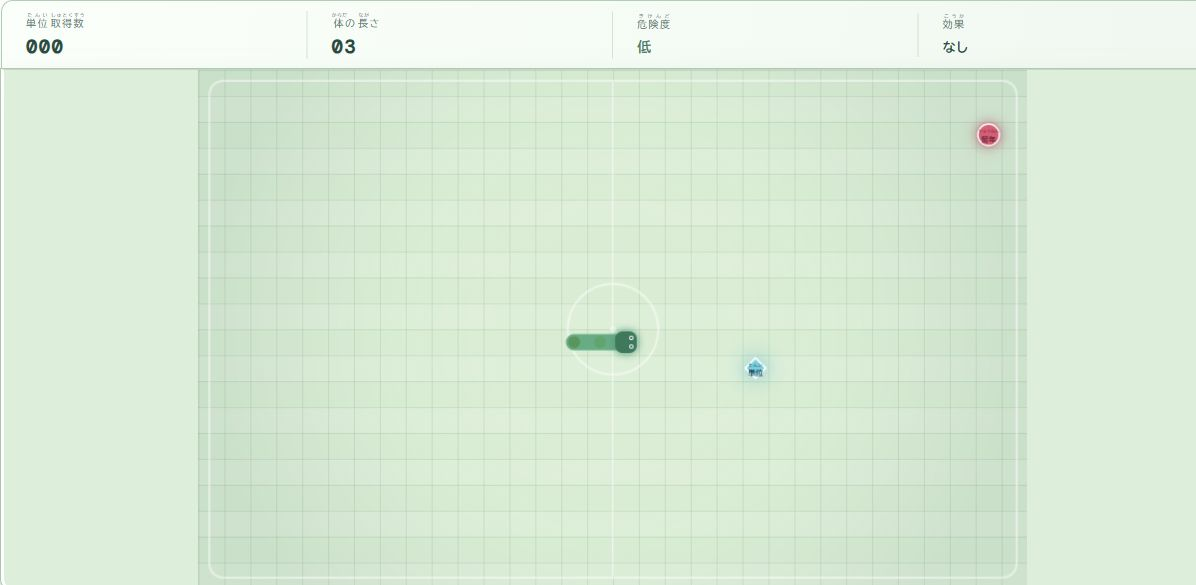
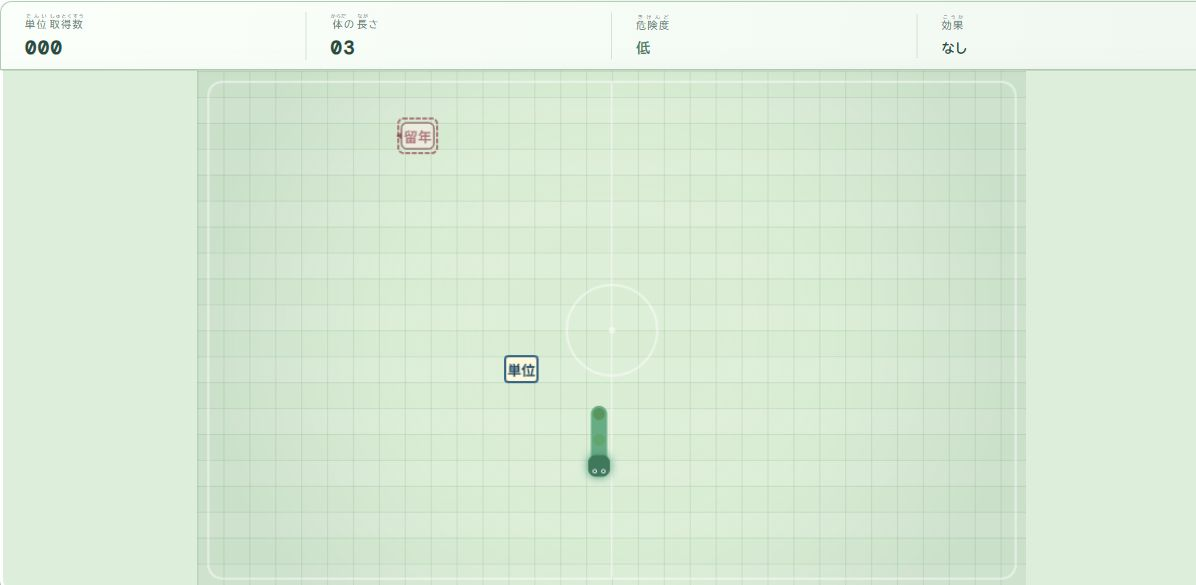
Improve Kosen Survivor pacing, spawning and collision fairness

diff --git a/games/local/2026-4Pro-ishida/game.js b/games/local/2026-4Pro-ishida/game.js
@@ -14,9 +14,9 @@
   const eyebrowEl = document.querySelector('#overlay-eyebrow');
   const directions = {up:{x:0,y:-1},down:{x:0,y:1},left:{x:-1,y:0},right:{x:1,y:0}};
   const difficultySettings = {
-    easy: {speed:160,minSpeed:118,interval:1600,intervalDrop:5,minInterval:700,startHazards:1,capStart:2,capEvery:18,waveEvery:55,maxWave:1},
-    normal: {speed:142,minSpeed:90,interval:1100,intervalDrop:8,minInterval:420,startHazards:1,capStart:3,capEvery:14,waveEvery:38,maxWave:2},
-    hard: {speed:122,minSpeed:72,interval:900,intervalDrop:10,minInterval:320,startHazards:2,capStart:4,capEvery:10,waveEvery:25,maxWave:3}
+    easy: {speed:180,minSpeed:145,hazardSpeed:420,minHazardSpeed:350,warning:1100,interval:2000,intervalDrop:3,minInterval:1100,startHazards:1,capStart:2,capEvery:24,waveEvery:70,maxWave:1},
+    normal: {speed:160,minSpeed:125,hazardSpeed:340,minHazardSpeed:270,warning:1000,interval:1600,intervalDrop:4,minInterval:850,startHazards:1,capStart:3,capEvery:20,waveEvery:55,maxWave:2},
+    hard: {speed:138,minSpeed:105,hazardSpeed:270,minHazardSpeed:210,warning:900,interval:1250,intervalDrop:6,minInterval:600,startHazards:2,capStart:4,capEvery:16,waveEvery:40,maxWave:2}
   };
   let difficulty='normal', collectedOrbs=0;
   let snake, previousSnake, dir, directionQueue, food, hazards, powerup, score, stepMs, lastStep, lastSpawn, lastPowerSpawn, startedAt, running, gameOver, shieldCharges=0, slowUntil=0, magnetUntil=0, growthPending=0, frame=0, lastStatsUpdate=0;
@@ -52,12 +52,22 @@
     copyEl.className='';
     snake=[{x:15,y:10},{x:14,y:10},{x:13,y:10}];previousSnake=snake.map(s=>({...s}));dir={x:1,y:0};directionQueue=[];hazards=[];powerup=null;shieldCharges=0;slowUntil=0;magnetUntil=0;growthPending=0;score=0;collectedOrbs=0;stepMs=difficultySettings[difficulty].speed;lastStep=performance.now();lastSpawn=0;lastPowerSpawn=lastStep;startedAt=performance.now();running=true;gameOver=false;placeFood();updateStats();updatePowerStatus();overlay.classList.add('hidden');
   }
-  function showReady(){reset();running=false;titleEl.textContent='スペースキーでスタート';copyEl.textContent='';eyebrowEl.textContent='READY';startBtn.innerHTML='スタート <span>→</span>';overlay.classList.remove('hidden');}
+  function showReady(){reset();running=false;titleEl.textContent='こうせんサバイバー';copyEl.textContent='単位を集めて、留年をよけよう。点滅は出現の合図！';eyebrowEl.textContent='あそびかた';startBtn.innerHTML='スタート <span>→</span>';overlay.classList.remove('hidden');}
   function updateStats(){scoreEl.textContent=String(score).padStart(3,'0');lengthEl.textContent=String(snake?.length||3).padStart(2,'0');const elapsed=startedAt?Math.max(0,(performance.now()-startedAt)/1000):0;const level=Math.min(100,Math.round((elapsed/90)*100));dangerEl.textContent=level>70?'高':level>35?'中':'低';dangerEl.style.color=level>70?'#bd3c52':level>35?'#a86614':'#21845f';}
   function updatePowerStatus(){const now=performance.now();const active=[];if(shieldCharges)active.push('まもり ×'+shieldCharges);if(slowUntil>now)active.push('ゆっくり '+Math.ceil((slowUntil-now)/1000)+'秒');if(magnetUntil>now)active.push('ひきよせ '+Math.ceil((magnetUntil-now)/1000)+'秒');effectStatusEl.textContent=active.join(' · ')||'なし';}
   function spawnPowerup(ts){const types=['shield','slow','magnet','clear','bonus'];let position;do{position={x:Math.floor(Math.random()*COLS),y:Math.floor(Math.random()*ROWS)}}while(snake.some(s=>same(s,position))||hazards.some(h=>same(h,position))||same(food,position));powerup={...position,type:types[Math.floor(Math.random()*types.length)],expiresAt:ts+10000};lastPowerSpawn=ts;}
   function collectPowerup(){const now=performance.now();if(powerup.type==='shield')shieldCharges=1;else if(powerup.type==='slow')slowUntil=Math.max(now,slowUntil)+7000;else if(powerup.type==='magnet')magnetUntil=Math.max(now,magnetUntil)+8000;else if(powerup.type==='clear')hazards=[];else if(powerup.type==='bonus'){score+=2;collectedOrbs+=2;growthPending++;updateStats();}powerup=null;lastPowerSpawn=now;updatePowerStatus();}
-  function resolveHazardCollisions(){for(let i=hazards.length-1;i>=0;i--){if(snake.some(s=>same(s,hazards[i]))){if(shieldCharges>0){shieldCharges--;hazards.splice(i,1);}else return true;}}updatePowerStatus();return false;}
+  function resolveHazardCollisions(){
+    // 留年に当たるのは頭だけ。長い胴体を横切られても終了しない。
+    for(let i=hazards.length-1;i>=0;i--){
+      if(hazards[i].active&&same(snake[0],hazards[i])){
+        if(shieldCharges>0){shieldCharges--;hazards.splice(i,1);}
+        else return true;
+      }
+    }
+    updatePowerStatus();
+    return false;
+  }
   function endGame(){
     running=false;gameOver=true;
     recordScore();
@@ -65,11 +75,11 @@
     if(score<=3){result='<ruby>君<rt>きみ</rt></ruby>は<ruby>留年<rt>りゅうねん</rt></ruby>してしまった！もう<ruby>一年<rt>いちねん</rt></ruby><ruby>頑張<rt>がんば</rt></ruby>ろう！';resultClass='result-fail';}
     else if(score<=5){result='もう<ruby>一歩<rt>いっぽ</rt></ruby>！あと<ruby>少<rt>すこ</rt></ruby>しで<ruby>留年<rt>りゅうねん</rt></ruby><ruby>回避<rt>かいひ</rt></ruby>！';resultClass='result-mid';}
     else if(score<10){result='ギリギリ<ruby>留年<rt>りゅうねん</rt></ruby><ruby>回避<rt>かいひ</rt></ruby>！おめでとう！';resultClass='result-close';}
-    else{result='キミはエリート<ruby>高専生<rt>こうせんせい</rt></ruby>だ！excellent!';resultClass='result-elite';}
-    titleEl.innerHTML='GAME<br><em>OVER.</em>';
+    else{result='キミはエリート<ruby>高専生<rt>こうせんせい</rt></ruby>だ！';resultClass='result-elite';}
+    titleEl.textContent='おつかれさま！';
     copyEl.className=`result-message ${resultClass}`;
     copyEl.innerHTML=`<span class="result-phrase">${result}</span><span class="result-score"><ruby>取得単位<rt>しゅとくたんい</rt></ruby> <b>${String(score).padStart(3,'0')}</b> ・ <ruby>長<rt>なが</rt></ruby>さ ${snake.length}</span>`;
-    eyebrowEl.textContent='RESULT';startBtn.innerHTML='PLAY AGAIN <span>→</span>';overlay.classList.remove('hidden');
+    eyebrowEl.textContent='けっか';startBtn.innerHTML='もう一度あそぶ <span>→</span>';overlay.classList.remove('hidden');
   }
   function setDirection(d){
     if(!running)return;
@@ -79,28 +89,65 @@
     if(directionQueue.length>=2)return;
     directionQueue.push(n);
     const now=performance.now();
-    if(now-lastStep>=stepMs*.7){tick();lastStep=now;}
+    if(now-lastStep>=stepMs*.7){tick(now);lastStep=now;}
   }
-  function spawnHazard(){const side=Math.floor(Math.random()*4);let h,v;if(side===0){h={x:Math.floor(Math.random()*COLS),y:0};v={x:0,y:1}}else if(side===1){h={x:COLS-1,y:Math.floor(Math.random()*ROWS)};v={x:-1,y:0}}else if(side===2){h={x:Math.floor(Math.random()*COLS),y:ROWS-1};v={x:0,y:-1}}else{h={x:0,y:Math.floor(Math.random()*ROWS)};v={x:1,y:0}}hazards.push({...h,prevX:h.x,prevY:h.y,v,life:0});}
-  function spawnWave(ts){const elapsed=(ts-startedAt)/1000;const settings=difficultySettings[difficulty];const maxHazards=Math.min(20,settings.capStart+Math.floor(elapsed/settings.capEvery));const waveSize=Math.min(settings.maxWave,1+Math.floor(elapsed/settings.waveEvery));for(let i=0;i<waveSize&&hazards.length<maxHazards;i++)spawnHazard();lastSpawn=ts;}
+  function spawnHazard(ts){
+    const choices=[];
+    // 頭の近く・単位・アイテム・他の留年を避け、盤面全体から選ぶ。
+    for(let y=0;y<ROWS;y++)for(let x=0;x<COLS;x++){
+      const cell={x,y};
+      if(Math.abs(x-snake[0].x)+Math.abs(y-snake[0].y)<6)continue;
+      if(snake.some(s=>same(s,cell))||same(food,cell)||(powerup&&same(powerup,cell)))continue;
+      if(hazards.some(h=>Math.abs(h.x-x)+Math.abs(h.y-y)<3))continue;
+      choices.push(cell);
+    }
+    if(!choices.length)return;
+    const position=choices[Math.floor(Math.random()*choices.length)];
+    // 出てすぐ画面外に消えないよう、4マス以上進める向きを選ぶ。
+    const headings=Object.values(directions).filter(v=>position.x+v.x*4>=0&&position.x+v.x*4<COLS&&position.y+v.y*4>=0&&position.y+v.y*4<ROWS);
+    const settings=difficultySettings[difficulty];
+    const elapsed=Math.max(0,(ts-startedAt)/1000);
+    const speed=Math.max(settings.minHazardSpeed,settings.hazardSpeed-elapsed*.5);
+    hazards.push({...position,prevX:position.x,prevY:position.y,
+      v:headings[Math.floor(Math.random()*headings.length)],
+      stepMs:speed*(.95+Math.random()*.2),
+      spawnedAt:ts,readyAt:ts+settings.warning,lastMove:ts+settings.warning,active:false});
+  }
+  function spawnWave(ts){const elapsed=(ts-startedAt)/1000;const settings=difficultySettings[difficulty];const maxHazards=Math.min(12,settings.capStart+Math.floor(elapsed/settings.capEvery));const waveSize=Math.min(settings.maxWave,1+Math.floor(elapsed/settings.waveEvery));for(let i=0;i<waveSize&&hazards.length<maxHazards;i++)spawnHazard(ts);lastSpawn=ts;}
   function spawnInterval(ts){const elapsed=(ts-startedAt)/1000;const settings=difficultySettings[difficulty];return Math.max(settings.minInterval,settings.interval-elapsed*settings.intervalDrop);}
-  function tick(){
+  function tick(ts){
     if(directionQueue.length)dir=directionQueue.shift();
     const head={x:snake[0].x+dir.x,y:snake[0].y+dir.y};
-    if(head.x<0||head.x>=COLS||head.y<0||head.y>=ROWS||snake.some((s,i)=>i>0&&same(s,head))){endGame();return;}
+    const magnetReach=ts<magnetUntil&&Math.abs(head.x-food.x)+Math.abs(head.y-food.y)<=4;
+    const eatsFood=same(head,food)||magnetReach;
+    const grows=growthPending>0||(eatsFood&&(collectedOrbs+1)%2===0);
+    // しっぽが移動する手では、直後に空く最後のマスへ進める。
+    const body=grows?snake:snake.slice(0,-1);
+    if(head.x<0||head.x>=COLS||head.y<0||head.y>=ROWS||body.some(s=>same(s,head))){endGame();return;}
     previousSnake=snake.map(s=>({...s}));snake.unshift(head);
     let grow=growthPending>0;if(grow)growthPending--;
-    const magnetActive=performance.now()<magnetUntil;
-    const magnetReach=magnetActive&&Math.abs(head.x-food.x)+Math.abs(head.y-food.y)<=4;
-    if(same(head,food)||magnetReach){score++;collectedOrbs++;if(collectedOrbs%2===0)grow=true;const settings=difficultySettings[difficulty];stepMs=Math.max(settings.minSpeed,stepMs-1.2);placeFood();updateStats();}
+    if(eatsFood){score++;collectedOrbs++;if(collectedOrbs%2===0)grow=true;const settings=difficultySettings[difficulty];stepMs=Math.max(settings.minSpeed,stepMs-.8);placeFood();}
     if(powerup&&same(head,powerup))collectPowerup();
     if(!grow)snake.pop();
     if(resolveHazardCollisions()){endGame();return;}
-    const moveHazards=performance.now()>=slowUntil;
-    for(const h of hazards){h.prevX=h.x;h.prevY=h.y;if(moveHazards){h.x+=h.v.x;h.y+=h.v.y;h.life++;}}
-    hazards=hazards.filter(h=>h.x>=0&&h.x<COLS&&h.y>=0&&h.y<ROWS&&h.life<Math.max(COLS,ROWS));
-    if(resolveHazardCollisions()){endGame();return;}
+    updateStats();
     updatePowerStatus();
+  }
+  function hazardInterval(h,ts){return h.stepMs*(ts<slowUntil?2:1);}
+  function updateHazards(ts){
+    for(const h of hazards){
+      if(!h.active){
+        if(ts<h.readyAt)continue;
+        // 予告中に頭が重なっていたら、その場で実体化させない。
+        if(same(snake[0],h)){h.readyAt=ts+400;continue;}
+        h.active=true;h.lastMove=ts;
+      }
+      if(ts-h.lastMove<hazardInterval(h,ts))continue;
+      h.prevX=h.x;h.prevY=h.y;
+      h.x+=h.v.x;h.y+=h.v.y;h.lastMove=ts;
+    }
+    hazards=hazards.filter(h=>h.x>=0&&h.x<COLS&&h.y>=0&&h.y<ROWS);
+    if(resolveHazardCollisions())endGame();
   }
   function draw(ts){frame++;ctx.clearRect(0,0,canvas.width,canvas.height);ctx.fillStyle='#d9f0d7';ctx.fillRect(0,0,canvas.width,canvas.height);
     for(let y=0;y<ROWS;y+=2){ctx.fillStyle='rgba(87,157,91,.035)';ctx.fillRect(0,y*CELL,canvas.width,CELL)}
@@ -109,17 +156,59 @@
     const grad=ctx.createRadialGradient(canvas.width/2,canvas.height/2,70,canvas.width/2,canvas.height/2,380);grad.addColorStop(0,'rgba(255,255,255,0)');grad.addColorStop(1,'rgba(46,107,102,.10)');ctx.fillStyle=grad;ctx.fillRect(0,0,canvas.width,canvas.height);
     // A faint schoolyard court marking beneath the action.
     ctx.save();ctx.strokeStyle='rgba(255,255,255,.48)';ctx.lineWidth=2;ctx.beginPath();ctx.roundRect(10,10,canvas.width-20,canvas.height-20,13);ctx.stroke();ctx.beginPath();ctx.moveTo(canvas.width/2,12);ctx.lineTo(canvas.width/2,canvas.height-12);ctx.stroke();ctx.beginPath();ctx.arc(canvas.width/2,canvas.height/2,42,0,Math.PI*2);ctx.stroke();ctx.beginPath();ctx.arc(canvas.width/2,canvas.height/2,3,0,Math.PI*2);ctx.fillStyle='rgba(255,255,255,.55)';ctx.fill();ctx.restore();
-    // Food glow
+    // 単位は明るい札、留年は赤い札で見分ける。
     const progress=running?Math.max(0,Math.min(1,(ts-lastStep)/stepMs)):1;
     const lerp=(a,b)=>a+(b-a)*progress;
-    if(food){const pulse=1+Math.sin(frame*.09)*.07;const x=food.x*CELL+12,y=food.y*CELL+12;ctx.shadowBlur=20;ctx.shadowColor='#00aeca';ctx.fillStyle='#45d4df';ctx.beginPath();ctx.moveTo(x,y-10*pulse);ctx.lineTo(x+10*pulse,y);ctx.lineTo(x,y+10*pulse);ctx.lineTo(x-10*pulse,y);ctx.closePath();ctx.fill();ctx.shadowBlur=0;ctx.strokeStyle='#ffffff';ctx.lineWidth=1.5;ctx.stroke();ctx.textAlign='center';ctx.textBaseline='middle';ctx.fillStyle='#073d57';ctx.font='4.4px sans-serif';ctx.fillText('たんい',x,y-3);ctx.font='bold 7px sans-serif';ctx.fillText('単位',x,y+4.5)}
+    if(food){
+      const x=food.x*CELL+12,y=food.y*CELL+12;
+      ctx.fillStyle='#fff9d9';ctx.strokeStyle='#176387';ctx.lineWidth=2;
+      ctx.beginPath();ctx.roundRect(x-15,y-12,30,24,3);ctx.fill();ctx.stroke();
+      ctx.textAlign='center';ctx.textBaseline='middle';ctx.fillStyle='#124d6b';
+      ctx.font='bold 13px sans-serif';ctx.fillText('単位',x,y+1);
+    }
     if(powerup){const p=1+Math.sin(frame*.12)*.08;const x=powerup.x*CELL+12,y=powerup.y*CELL+12;const colors={shield:'#5388ee',slow:'#9864de',magnet:'#ed963d',clear:'#e6537d',bonus:'#24a879'};const glyphs={shield:'盾',slow:'時',magnet:'引',clear:'消',bonus:'+2'};const readings={shield:'たて',slow:'とき',magnet:'ひ',clear:'けす',bonus:'たんい'};ctx.shadowBlur=18;ctx.shadowColor=colors[powerup.type];ctx.fillStyle=colors[powerup.type];ctx.beginPath();ctx.roundRect(x-10*p,y-10*p,20*p,20*p,5);ctx.fill();ctx.shadowBlur=0;ctx.strokeStyle='#fff';ctx.lineWidth=1.5;ctx.stroke();ctx.textAlign='center';ctx.textBaseline='middle';ctx.fillStyle='#fff';ctx.font='3.5px sans-serif';ctx.fillText(readings[powerup.type],x,y-2.5);ctx.font='bold 7px sans-serif';ctx.fillText(glyphs[powerup.type],x,y+4.5)}
-    hazards.forEach((h,i)=>{const hx=lerp(h.prevX??h.x,h.x),hy=lerp(h.prevY??h.y,h.y);const x=hx*CELL+12,y=hy*CELL+12;ctx.globalAlpha=.18;ctx.fillStyle='#ed5573';ctx.beginPath();ctx.arc(x,y,12,0,Math.PI*2);ctx.fill();ctx.globalAlpha=1;ctx.shadowBlur=13;ctx.shadowColor='#d83d61';ctx.fillStyle=i%2?'#ff8495':'#ed5573';ctx.beginPath();ctx.arc(x,y,10,0,Math.PI*2);ctx.fill();ctx.shadowBlur=0;ctx.strokeStyle='#fff3f5';ctx.lineWidth=1.5;ctx.stroke();ctx.textAlign='center';ctx.textBaseline='middle';ctx.fillStyle='#681b33';ctx.font='3.8px sans-serif';ctx.fillText('りゅうねん',x,y-3);ctx.font='bold 7px sans-serif';ctx.fillText('留年',x,y+4.5)});
     const points=snake?.map((s,i)=>{const from=previousSnake?.[i]||s;return{x:lerp(from.x,s.x),y:lerp(from.y,s.y)}})||[];
     if(points.length>1){ctx.beginPath();ctx.moveTo(points[points.length-1].x*CELL+12,points[points.length-1].y*CELL+12);for(let i=points.length-2;i>=0;i--)ctx.lineTo(points[i].x*CELL+12,points[i].y*CELL+12);ctx.strokeStyle='#42ae83';ctx.lineWidth=15;ctx.lineCap='round';ctx.lineJoin='round';ctx.stroke()}
     points.forEach((s,i)=>{const x=s.x*CELL,y=s.y*CELL;const t=i/Math.max(1,points.length-1);if(i>0){ctx.fillStyle=`hsl(${151-t*13} ${49-t*5}% ${48-t*7}%)`;ctx.beginPath();ctx.arc(x+12,y+12,5.5,0,Math.PI*2);ctx.fill();return;}ctx.fillStyle='#167a5a';ctx.shadowBlur=9;ctx.shadowColor='#24956d';ctx.beginPath();ctx.roundRect(x+2,y+2,CELL-4,CELL-4,7);ctx.fill();ctx.shadowBlur=0;const eyeX=dir.x===1?x+17:dir.x===-1?x+7:x+8;const eyeY=dir.y===1?y+17:dir.y===-1?y+7:y+8;ctx.fillStyle='#fff';ctx.beginPath();ctx.arc(eyeX,eyeY,2,0,Math.PI*2);ctx.fill();const ex=dir.x===1?eyeX:dir.x===-1?eyeX:eyeX+8,ey=dir.y===1?eyeY:dir.y===-1?eyeY:eyeY+8;ctx.beginPath();ctx.arc(ex,ey,2,0,Math.PI*2);ctx.fill();ctx.fillStyle='#163d36';ctx.beginPath();ctx.arc(eyeX,eyeY,1,0,Math.PI*2);ctx.arc(ex,ey,1,0,Math.PI*2);ctx.fill()});
+    drawHazards(ts);
   }
-  function loop(ts){if(running){if(!lastSpawn){for(let i=0;i<difficultySettings[difficulty].startHazards;i++)spawnHazard();lastSpawn=ts;}if(powerup&&ts>powerup.expiresAt)powerup=null;if(!powerup&&ts-lastPowerSpawn>12000)spawnPowerup(ts);if(ts-lastStatsUpdate>500){updateStats();updatePowerStatus();lastStatsUpdate=ts;}if(ts-lastSpawn>spawnInterval(ts))spawnWave(ts);if(ts-lastStep>stepMs){tick();lastStep=ts;}}draw(ts);requestAnimationFrame(loop)}
+  function drawHazards(ts){
+    for(const h of hazards){
+      const progress=h.active?Math.min(1,Math.max(0,(ts-h.lastMove)/hazardInterval(h,ts))):1;
+      const x=(h.prevX+(h.x-h.prevX)*progress)*CELL+12;
+      const y=(h.prevY+(h.y-h.prevY)*progress)*CELL+12;
+      ctx.save();
+      if(!h.active){
+        ctx.globalAlpha=.45+.25*Math.sin(ts/90);
+        ctx.strokeStyle='#a52332';ctx.lineWidth=2;ctx.setLineDash([3,3]);
+        ctx.beginPath();ctx.roundRect(x-18,y-16,36,32,5);ctx.stroke();ctx.setLineDash([]);
+      }
+      ctx.fillStyle=h.active?'#b52638':'#fff0e9';
+      ctx.strokeStyle='#761b29';ctx.lineWidth=1.5;
+      ctx.beginPath();ctx.roundRect(x-15,y-12,30,24,5);ctx.fill();ctx.stroke();
+      ctx.textAlign='center';ctx.textBaseline='middle';ctx.fillStyle=h.active?'#fff':'#9b2534';
+      ctx.font='bold 13px sans-serif';ctx.fillText('留年',x,y+1);
+      // 矢印で次に進む向きを示す。
+      const tipX=x+h.v.x*20,tipY=y+h.v.y*18;
+      const baseX=x+h.v.x*15,baseY=y+h.v.y*13;
+      ctx.fillStyle='#761b29';ctx.beginPath();ctx.moveTo(tipX,tipY);
+      ctx.lineTo(baseX-h.v.y*3,baseY+h.v.x*3);
+      ctx.lineTo(baseX+h.v.y*3,baseY-h.v.x*3);ctx.closePath();ctx.fill();
+      ctx.restore();
+    }
+  }
+  function loop(ts){
+    if(running){
+      if(!lastSpawn){for(let i=0;i<difficultySettings[difficulty].startHazards;i++)spawnHazard(ts);lastSpawn=ts;}
+      if(powerup&&ts>powerup.expiresAt)powerup=null;
+      if(!powerup&&ts-lastPowerSpawn>12000)spawnPowerup(ts);
+      if(ts-lastStatsUpdate>500){updateStats();updatePowerStatus();lastStatsUpdate=ts;}
+      if(ts-lastSpawn>spawnInterval(ts))spawnWave(ts);
+      if(ts-lastStep>stepMs){tick(ts);lastStep=ts;}
+      if(running)updateHazards(ts);
+    }
+    draw(ts);requestAnimationFrame(loop);
+  }
   document.addEventListener('keydown',e=>{if(e.code==='Space'||e.key===' '){e.preventDefault();if(!running)reset();return;}const map={ArrowUp:'up',w:'up',W:'up',ArrowDown:'down',s:'down',S:'down',ArrowLeft:'left',a:'left',A:'left',ArrowRight:'right',d:'right',D:'right'};if(map[e.key]){e.preventDefault();setDirection(map[e.key]);}if(e.key==='Enter'&&!running){e.preventDefault();reset();}});
   document.querySelectorAll('[data-dir]').forEach(b=>{b.addEventListener('pointerdown',e=>{e.preventDefault();setDirection(b.dataset.dir);});});
   document.querySelectorAll('[data-difficulty]').forEach(button=>button.addEventListener('click',()=>{

diff --git a/launcher/kosen-technology.html b/launcher/kosen-technology.html
@@ -74,8 +74,8 @@
         <p class="lead">JavaScriptが、ゲームの状態を調べて判断します。</p>
         <div class="rule-cards">
           <article class="rule-card collect-rule"><span class="rule-label">単位を取る</span><div class="rule-visual collect-visual" role="img" aria-label="キャラクターが単位と同じマスに到着し、得点が1増える模式図。"><span class="game-piece snake-piece"></span><span class="visual-arrow" aria-hidden="true">→</span><span class="game-piece credit-piece"></span><b>+1</b></div><h2>同じマスに来たら</h2><p>得点を <strong>1</strong> 増やす。<br>2単位ごとに体も伸びます。</p><div class="condition">もし単位と位置が同じなら<br><b>得点を増やす</b></div></article>
-          <article class="rule-card collision-rule"><span class="rule-label">ぶつかる</span><div class="rule-visual collision-visual" role="img" aria-label="キャラクターが壁にぶつかり、ゲーム終了になる模式図。"><span class="game-piece snake-piece"></span><span class="visual-arrow" aria-hidden="true">→</span><span class="wall"></span><b>STOP</b></div><h2>壁や自分の体に当たったら</h2><p>ゲームを終了して、<br>結果の画面を表示します。</p><div class="condition">もし壁や体に当たったなら<br><b>ゲーム終了</b></div></article>
-          <article class="rule-card difficulty-rule"><span class="rule-label">難易度を変える</span><div class="speed-chart" role="img" aria-label="開始時の移動間隔。かんたん160ミリ秒、ふつう142ミリ秒、むずかしい122ミリ秒。間隔が短いほど速く進む。"><div><span>かんたん</span><i style="--bar:100%"></i><b>160</b></div><div><span>ふつう</span><i style="--bar:89%"></i><b>142</b></div><div><span>むずかしい</span><i style="--bar:76%"></i><b>122</b></div><small>1マス進む間隔（開始時・ミリ秒）</small></div><h2>進む間隔を短くすると</h2><p>キャラクターが速く進む。<br>よけるのが難しくなります。</p><div class="condition">難易度に合わせて<br><b>動きの数値を変える</b></div></article>
+          <article class="rule-card collision-rule"><span class="rule-label">ぶつかる</span><div class="rule-visual collision-visual" role="img" aria-label="キャラクターが壁にぶつかり、ゲーム終了になる模式図。"><span class="game-piece snake-piece"></span><span class="visual-arrow" aria-hidden="true">→</span><span class="wall"></span><b>STOP</b></div><h2>頭が壁・体・留年に当たったら</h2><p>ゲーム終了。留年が胴体に<br>触れただけなら続けられます。</p><div class="condition">頭がぶつかったか調べて<br><b>ゲーム終了を決める</b></div></article>
+          <article class="rule-card difficulty-rule"><span class="rule-label">難易度を変える</span><div class="speed-chart" role="img" aria-label="開始時の移動間隔。かんたん180ミリ秒、ふつう160ミリ秒、むずかしい138ミリ秒。間隔が短いほど速く進む。"><div><span>かんたん</span><i style="--bar:100%"></i><b>180</b></div><div><span>ふつう</span><i style="--bar:89%"></i><b>160</b></div><div><span>むずかしい</span><i style="--bar:77%"></i><b>138</b></div><small>1マス進む間隔（開始時・ミリ秒）</small></div><h2>進む間隔を短くすると</h2><p>キャラクターが速く進む。<br>留年は別の遅めの間隔で動きます。</p><div class="condition">難易度に合わせて<br><b>動きの数値を変える</b></div></article>
         </div>
         <p class="takeaway"><span>ここがポイント</span>「どんなときに、何をするか」を書くと、ルールをつくれる。</p>
       </section>

diff --git a/launcher/technology.css b/launcher/technology.css
@@ -73,7 +73,7 @@ figcaption { margin-top:.5cqw; font-size:1.1cqw; color:#69595c; }
 .rule-label { font-size:1.5cqw; font-weight:800; }.rule-card h2 { font-size:1.65cqw; line-height:1.5; margin:1.1cqw 0 .4cqw; }.rule-card p { font-size:1.7cqw; line-height:1.7; margin:0 0 1.2cqw; }.rule-card p strong { color:var(--accent); }
 .rule-visual { display:flex; align-items:center; gap:.9cqw; height:7.5cqw; }.game-piece { display:block; background-image:url('/showcase/assets/kosen-survivor-play.png'); background-repeat:no-repeat; width:4.5cqw; height:4.5cqw; flex-shrink:0; border-radius:10px; border:1px solid #e1c8cd; background-color:#fff0f2; }
 /* 実際の画面画像から、キャラクターと単位の部分だけを見せます。 */
-.snake-piece { background-size:119.6cqw 58.5cqw; background-position:-60.4cqw -31.9cqw; }.credit-piece { background-size:119.6cqw 58.5cqw; background-position:-73.3cqw -34.5cqw; }
+.snake-piece { background-size:119.6cqw 58.5cqw; background-position:-57.55cqw -44.35cqw; }.credit-piece { background-size:119.6cqw 58.5cqw; background-position:-49.95cqw -34.65cqw; }
 .visual-arrow { font-size:2cqw; color:#b71929; }.rule-visual>b { margin-left:auto; font-size:3cqw; color:var(--accent); }.collision-visual>b { color:#b71929; font-size:2.2cqw; }
 .wall { width:1.3cqw; height:4.5cqw; border-radius:3px; background:repeating-linear-gradient(0deg,#b71929 0,#b71929 1cqw,#f5a8b0 1cqw,#f5a8b0 1.15cqw); border:1px solid #7f1320; }
 .condition { margin-top:auto; font-size:1.25cqw; line-height:1.7; padding:.85cqw 1cqw; background:#ffffffb3; border-radius:8px; }.condition b { font-size:1.5cqw; }
@@ -107,7 +107,7 @@ figcaption { margin-top:.5cqw; font-size:1.1cqw; color:#69595c; }
   .board-comparison { grid-template-columns:1fr 32px 1fr; gap:10px; }.mini-board { height:130px; }.board-label,.cell-label { font-size:15px; }.move-arrow kbd { font-size:22px; }.move-arrow b { font-size:12px; }.move-arrow>span { font-size:28px; }
   .canvas-note { padding:15px; margin-top:15px; }.canvas-note p { margin-top:8px; }.movement-copy>p { margin-bottom:12px; }
   .rule-cards { grid-template-columns:1fr; gap:15px; }.rule-card { padding:18px; }.rule-card h2 { font-size:22px; margin:8px 0; }.rule-card p { margin-bottom:16px; }.condition { padding:12px; }
-  .rule-visual { height:90px; gap:12px; }.game-piece { width:54px; height:54px; }.snake-piece { background-size:1435.2px 702px; background-position:-724.8px -382.8px; }.credit-piece { background-size:1435.2px 702px; background-position:-879.6px -414px; }.visual-arrow { font-size:24px; }.rule-visual>b { font-size:36px; }.collision-visual>b { font-size:26px; }.wall { height:54px; width:16px; }
+  .rule-visual { height:90px; gap:12px; }.game-piece { width:54px; height:54px; }.snake-piece { background-size:1435.2px 702px; background-position:-690.6px -532.2px; }.credit-piece { background-size:1435.2px 702px; background-position:-599.4px -415.8px; }.visual-arrow { font-size:24px; }.rule-visual>b { font-size:36px; }.collision-visual>b { font-size:26px; }.wall { height:54px; width:16px; }
   .speed-chart { min-height:100px; gap:8px; }.speed-chart>div { grid-template-columns:85px 1fr 32px; font-size:14px; }.speed-chart i { height:9px; }.speed-chart small { font-size:12px; }
   .page-button { min-width:90px; padding:10px 12px; }.deck-controls { gap:8px; }.page-indicator { gap:5px; }.page-dots button { width:27px; }#page-count { font-size:13px; }.key-hint { display:none; }
 }

diff --git a/games/local/2026-4Pro-ishida/index.html b/games/local/2026-4Pro-ishida/index.html
@@ -25,11 +25,11 @@
           <canvas id="game" width="768" height="480" aria-label="りゅうねんをさけてたんいをあつめるゲームがめん"></canvas>
           <div class="overlay hidden" id="overlay">
             <div class="overlay-card">
-              <div class="eyebrow" id="overlay-eyebrow">READY?</div>
+              <div class="eyebrow" id="overlay-eyebrow">あそびかた</div>
               <h1 id="overlay-title"><ruby>単位<rt>たんい</rt></ruby>を<ruby>集<rt>あつ</rt></ruby>めて、<br><em><ruby>留年<rt>りゅうねん</rt></ruby><ruby>回避<rt>かいひ</rt></ruby>。</em></h1>
-              <p id="overlay-copy"><ruby>四方<rt>しほう</rt></ruby>から<ruby>飛<rt>と</rt></ruby>んでくる「<ruby>留年<rt>りゅうねん</rt></ruby>」をかわし、<br>「<ruby>単位<rt>たんい</rt></ruby>」を<ruby>集<rt>あつ</rt></ruby>めて<ruby>体<rt>からだ</rt></ruby>を<ruby>伸<rt>の</rt></ruby>ばそう！</p>
+              <p id="overlay-copy">単位を集めて、留年をよけよう。点滅は出現の合図！</p>
               <div class="difficulty-control"><span>難易度</span><div class="difficulty-picker" role="group" aria-label="なんいどをせんたく"><button type="button" data-difficulty="easy" aria-pressed="false">かんたん</button><button type="button" data-difficulty="normal" aria-pressed="true">ふつう</button><button type="button" data-difficulty="hard" aria-pressed="false">むずかしい</button></div></div>
-              <button id="start" class="primary">START GAME <span>→</span></button>
+              <button id="start" class="primary">スタート <span>→</span></button>
               <div class="keys-hint"><ruby>移動<rt>いどう</rt></ruby> <kbd>↑</kbd><kbd>←</kbd><kbd>↓</kbd><kbd>→</kbd> · SPACEでスタート</div>
             </div>
           </div>
@@ -37,6 +37,12 @@
         <div class="mobile-controls" aria-label="ほうこうそうさ">
           <button data-dir="up" aria-label="うえ">▲</button>
           <div><button data-dir="left" aria-label="ひだり">◀</button><button data-dir="down" aria-label="した">▼</button><button data-dir="right" aria-label="みぎ">▶</button></div>
+        </div>
+        <div class="play-guide" aria-label="ゲームのルール">
+          <span><b class="credit-label">単位</b> とって集める</span>
+          <span><b class="hazard-label">留年</b> 頭に当たると終了</span>
+          <span class="collision-note">留年は胴体に触れてもOK。壁と自分の体はよけよう。</span>
+          <span class="spawn-note">点滅中は予告。矢印の向きへ動き出すよ。</span>
         </div>
         <div class="bottomline"><span><ruby>矢印<rt>やじるし</rt></ruby>キー / WASDで<ruby>移動<rt>いどう</rt></ruby> · SPACEでスタート・<ruby>再開<rt>さいかい</rt></ruby></span><span>2<ruby>単位<rt>たんい</rt></ruby>で<ruby>体<rt>からだ</rt></ruby>が1マス<ruby>伸<rt>の</rt></ruby>びる</span></div>
         <details class="quick-panel">

diff --git a/games/local/2026-4Pro-ishida/style.css b/games/local/2026-4Pro-ishida/style.css
@@ -94,3 +94,13 @@ body{background:radial-gradient(ellipse at 12% 10%,#fff 0,transparent 34%),radia
 .overlay h1{color:#1f6647}
 .primary{border-radius:999px}
 .mobile-controls button{border-radius:10px;border-color:#a7cdb0;box-shadow:0 3px 8px #36764a12}
+
+/* 盤面と同じ札を使い、取るもの・よけるものをすぐに見分けられるようにする。 */
+.play-guide{display:flex;align-items:center;flex-wrap:wrap;gap:10px 20px;padding:14px 2px 6px;font-size:13px;line-height:1.6;color:#284f3d}
+.play-guide>span{display:flex;align-items:center;gap:7px}
+.credit-label,.hazard-label{display:inline-block;padding:1px 5px;border:2px solid;border-radius:3px;font-size:14px;line-height:1.5;white-space:nowrap}
+.credit-label{background:#fff9d9;color:#124d6b;border-color:#176387}
+.hazard-label{background:#b52638;color:#fff;border-color:#761b29}
+.play-guide .collision-note,.play-guide .spawn-note{font-size:12px}
+.play-guide .spawn-note{color:#596b60}
+@media(max-width:620px){.play-guide{gap:8px 14px;font-size:12px}.play-guide .collision-note,.play-guide .spawn-note{flex-basis:100%;font-size:11px}}

diff --git a/showcase/assets/technology.md b/showcase/assets/technology.md
@@ -1,12 +1,12 @@
 # 技術スライド用画像
 
 - `kosen-survivor-ready.png`：このPCの `games/local/2026-4Pro-ishida/` を起動して撮影した開始画面。
-- `kosen-survivor-play.png`：同じゲームを開始した直後に撮影したプレイ画面。
-- 撮影日：2026年10月13日。どちらも1196×585ピクセル。生成画像ではありません。
+- `kosen-survivor-play.png`：同じゲームで下へ移動した直後のプレイ画面。盤面内に点滅する留年の出現予告と、大きくした単位の札を表示しています。
+- 撮影日：2026年10月25日。どちらも1196×585ピクセル。生成画像ではありません。
 
 ゲーム画面を更新したら、同じ範囲（得点欄と盤面）を撮り直して差し替えます。3ページ目のキャラクターと単位は、プレイ画面の一部をCSSの背景位置で表示しています。画像の寸法や構図を変えたら、`launcher/technology.css` の `.snake-piece` と `.credit-piece` の位置も確認してください。650px以下の画面用設定もあります。
 
-2ページ目のマス目と3ページ目の衝突図は、HTMLとCSSで作った説明用の模式図です。実際の盤面は32列×20行です。難易度の数値は現行 `game.js` の `difficultySettings` にある開始時の移動間隔（160 / 142 / 122ミリ秒）に対応します。ゲーム側の設定を変更したら、スライドの表示と代替テキストも更新してください。
+2ページ目のマス目と3ページ目の衝突図は、HTMLとCSSで作った説明用の模式図です。実際の盤面は32列×20行です。難易度の数値は現行 `game.js` の `difficultySettings` にある開始時の移動間隔（180 / 160 / 138ミリ秒）に対応します。ゲーム側の設定を変更したら、スライドの表示と代替テキストも更新してください。
 
 ## 追加4作品
 
